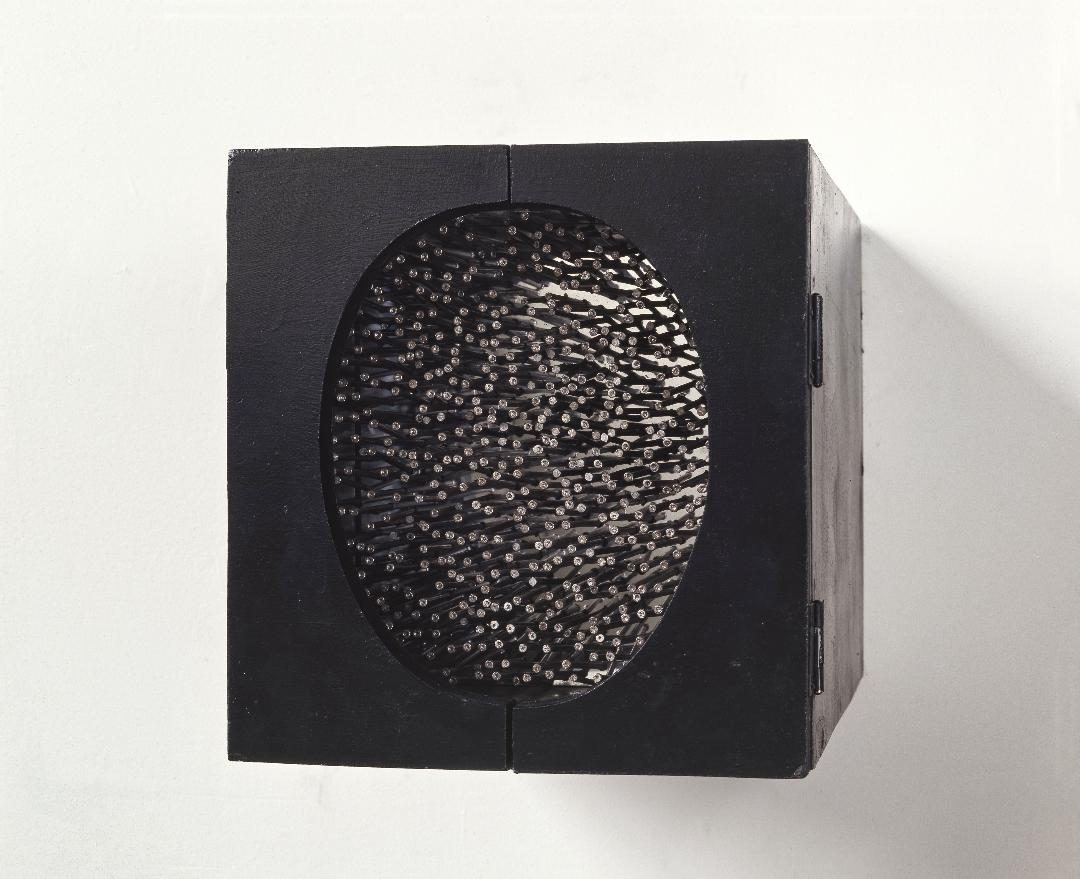
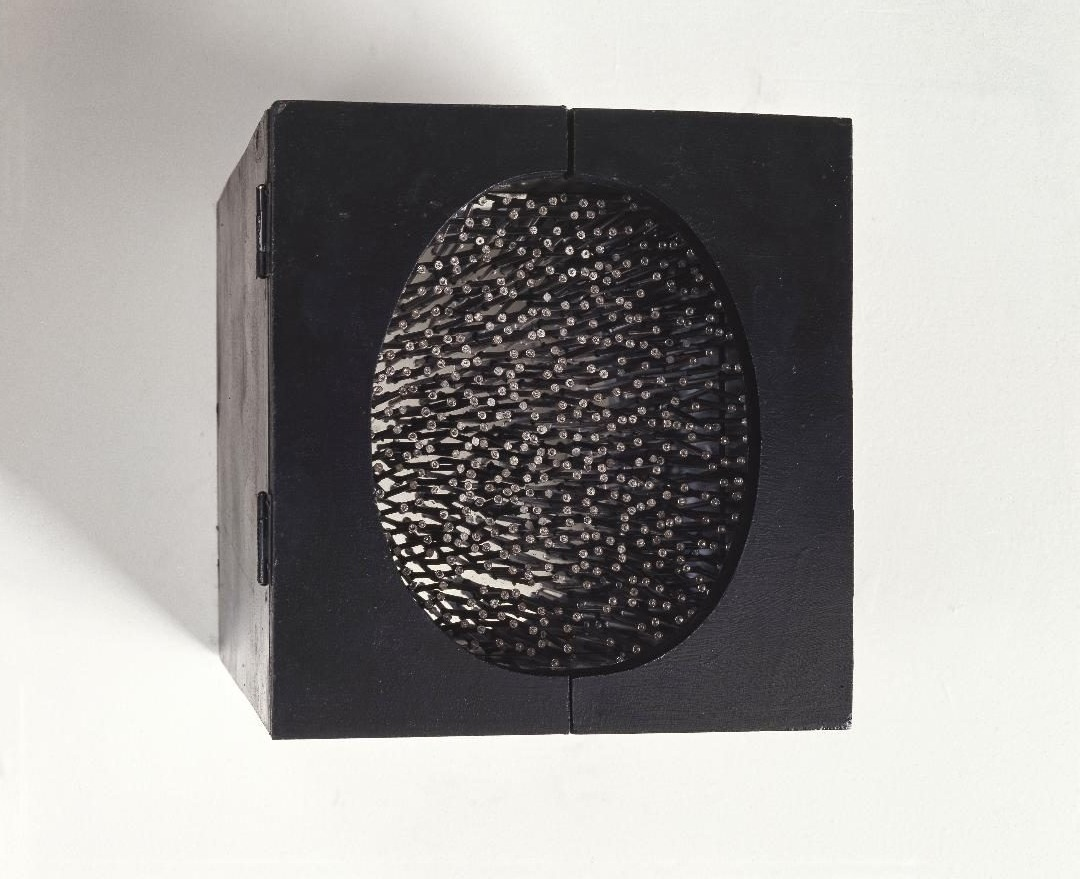
Box of Awe (Closed): drop the detail photo, rotate the photo 180°
Claude-Session: https://claude.ai/code/session_0158JoQQiK8gkA2y1Vs6Uzjr

diff --git a/works/box-of-awe-closed.html b/works/box-of-awe-closed.html
@@ -15,7 +15,6 @@
   <h1>Box of Awe (Closed)</h1>
   <div class="work-images">
     <a href="../portfolio.html#box-of-awe-closed"><img src="../images/box-of-awe-closed.jpg" width="1080" height="879" alt="Box of Awe (Closed)"></a>
-    <a href="../portfolio.html#box-of-awe-closed"><img src="../images/box-of-awe-detail.jpg" width="1954" height="2400" alt="Box of Awe (Closed)" loading="lazy"></a>
   </div>
   <p class="work-details">Pressboard, plexiglass mirror, nails, paint<br>10 × 10 × 18&quot;<br>(Collection of the artist)</p>
 </main>
